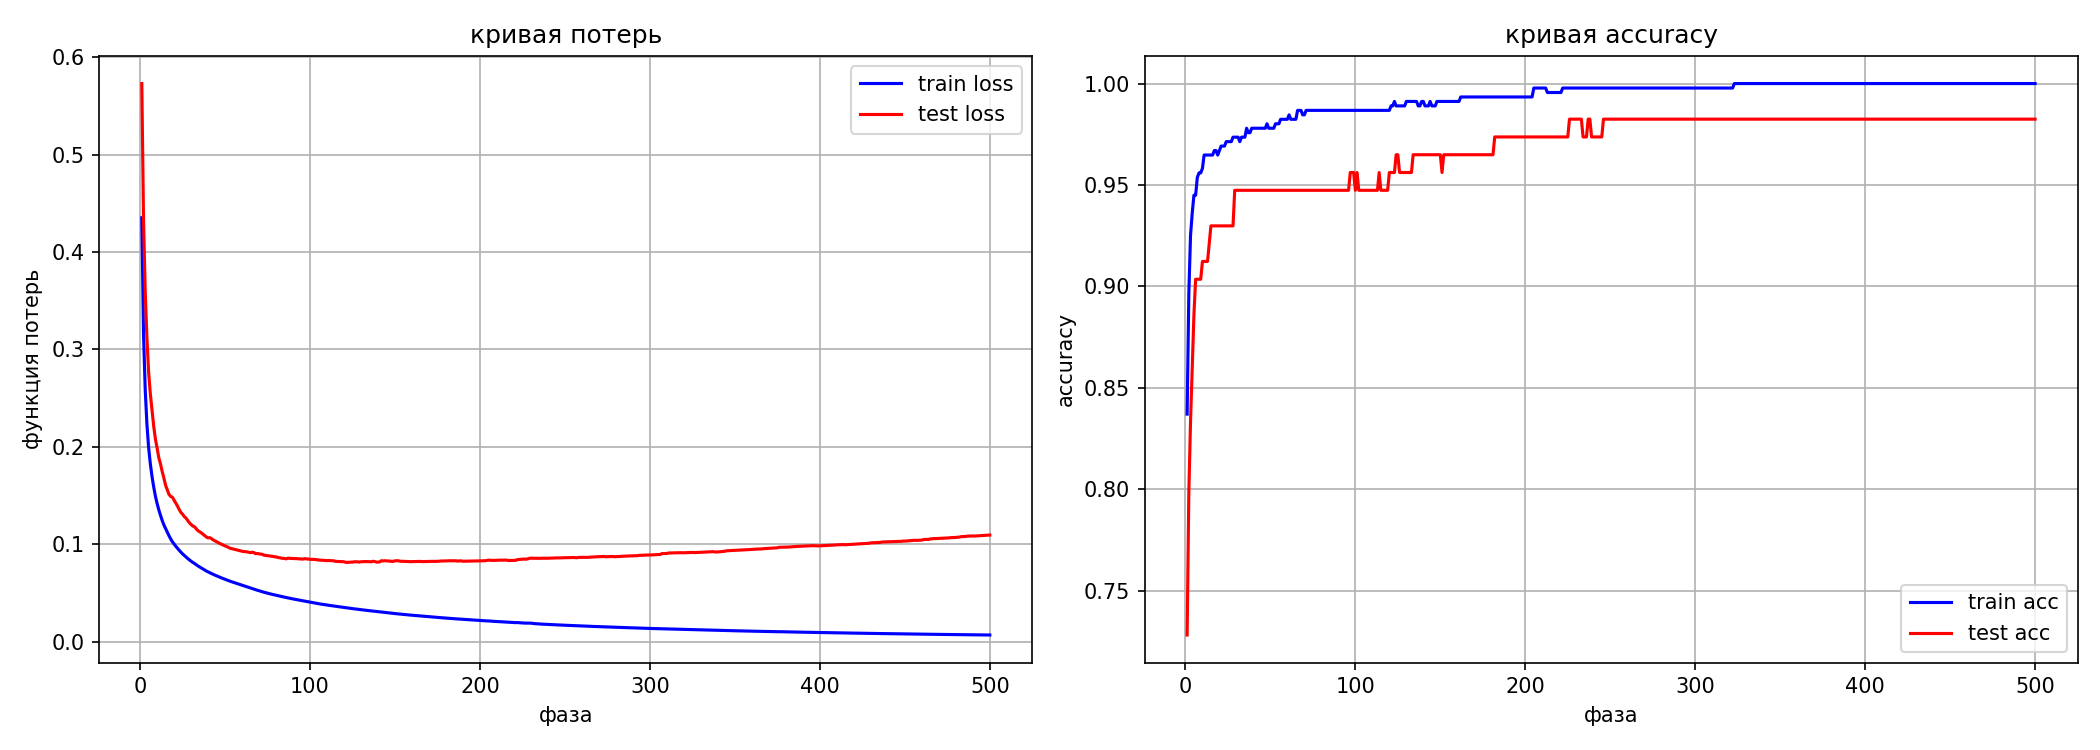
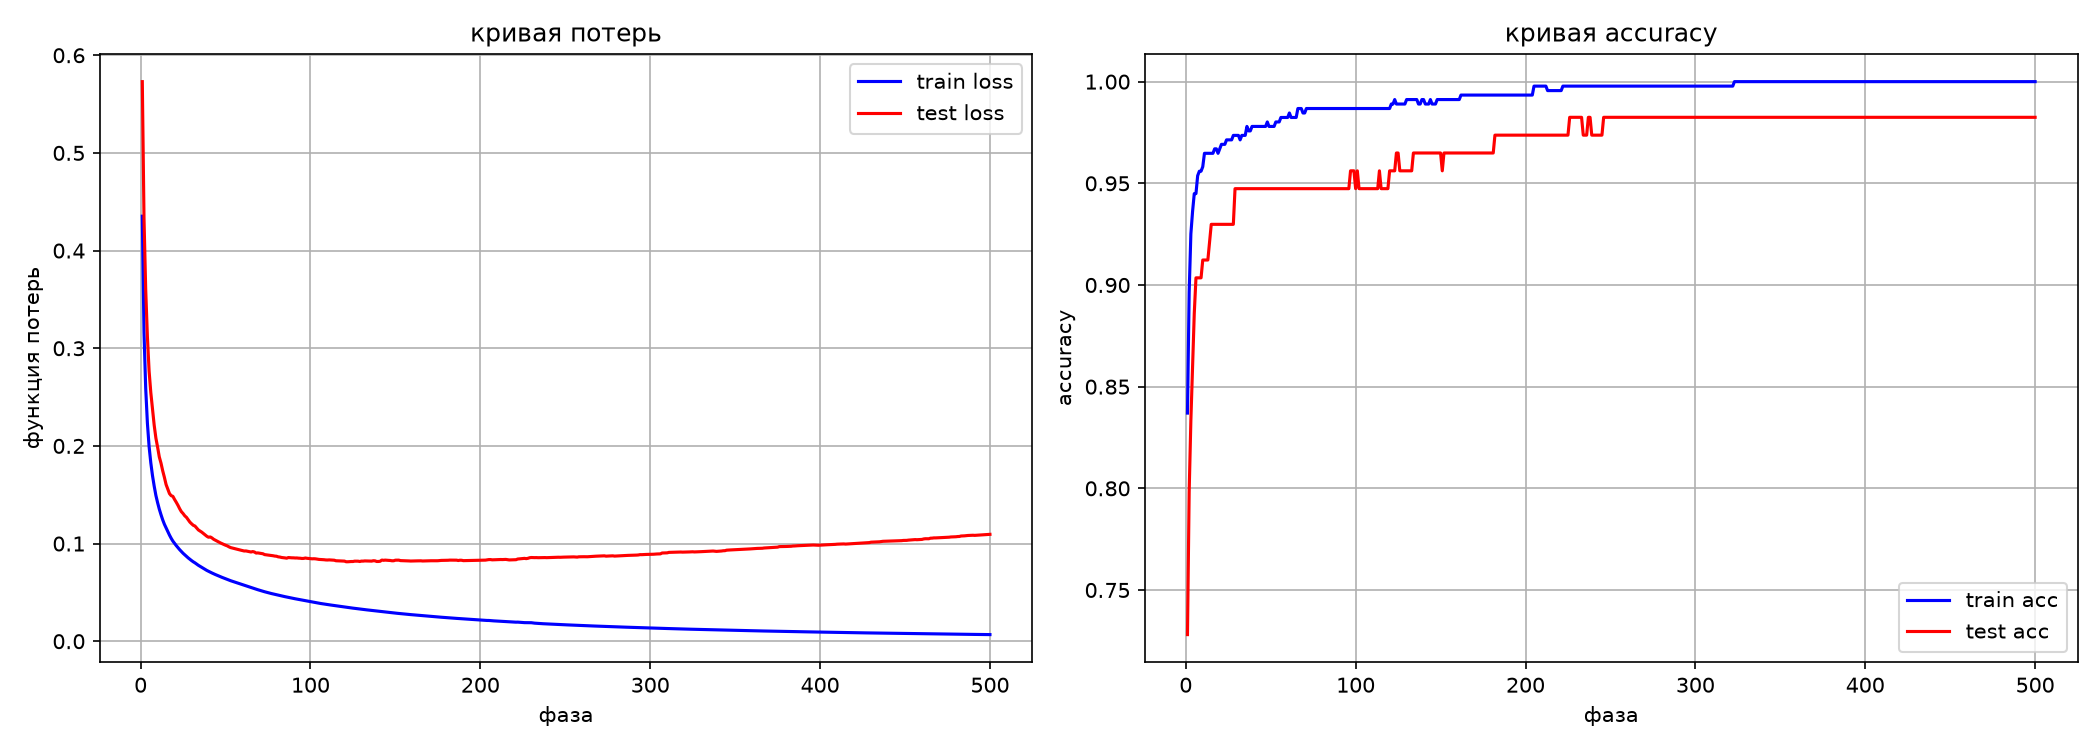
add2

diff --git a/predict.py b/predict.py
@@ -18,8 +18,6 @@ def predict(config):
     loss = model.cross_entropy_loss(y_pred_probs, y_test)
     acc = model.accuracy(X_test, y_test_cls)
 
-    print("РЕЗУЛЬТАТЫ НА ТЕСТОВОЙ ВЫБОРКЕ")
-    print("=" * 50)
     print(f"Binary Cross-Entropy Loss: {loss:.4f}")
     print(f"Accuracy:                  {acc:.4f} ({acc * 100:.2f}%)")
     print(f"Всего образцов:            {X_test.shape[0]}")
